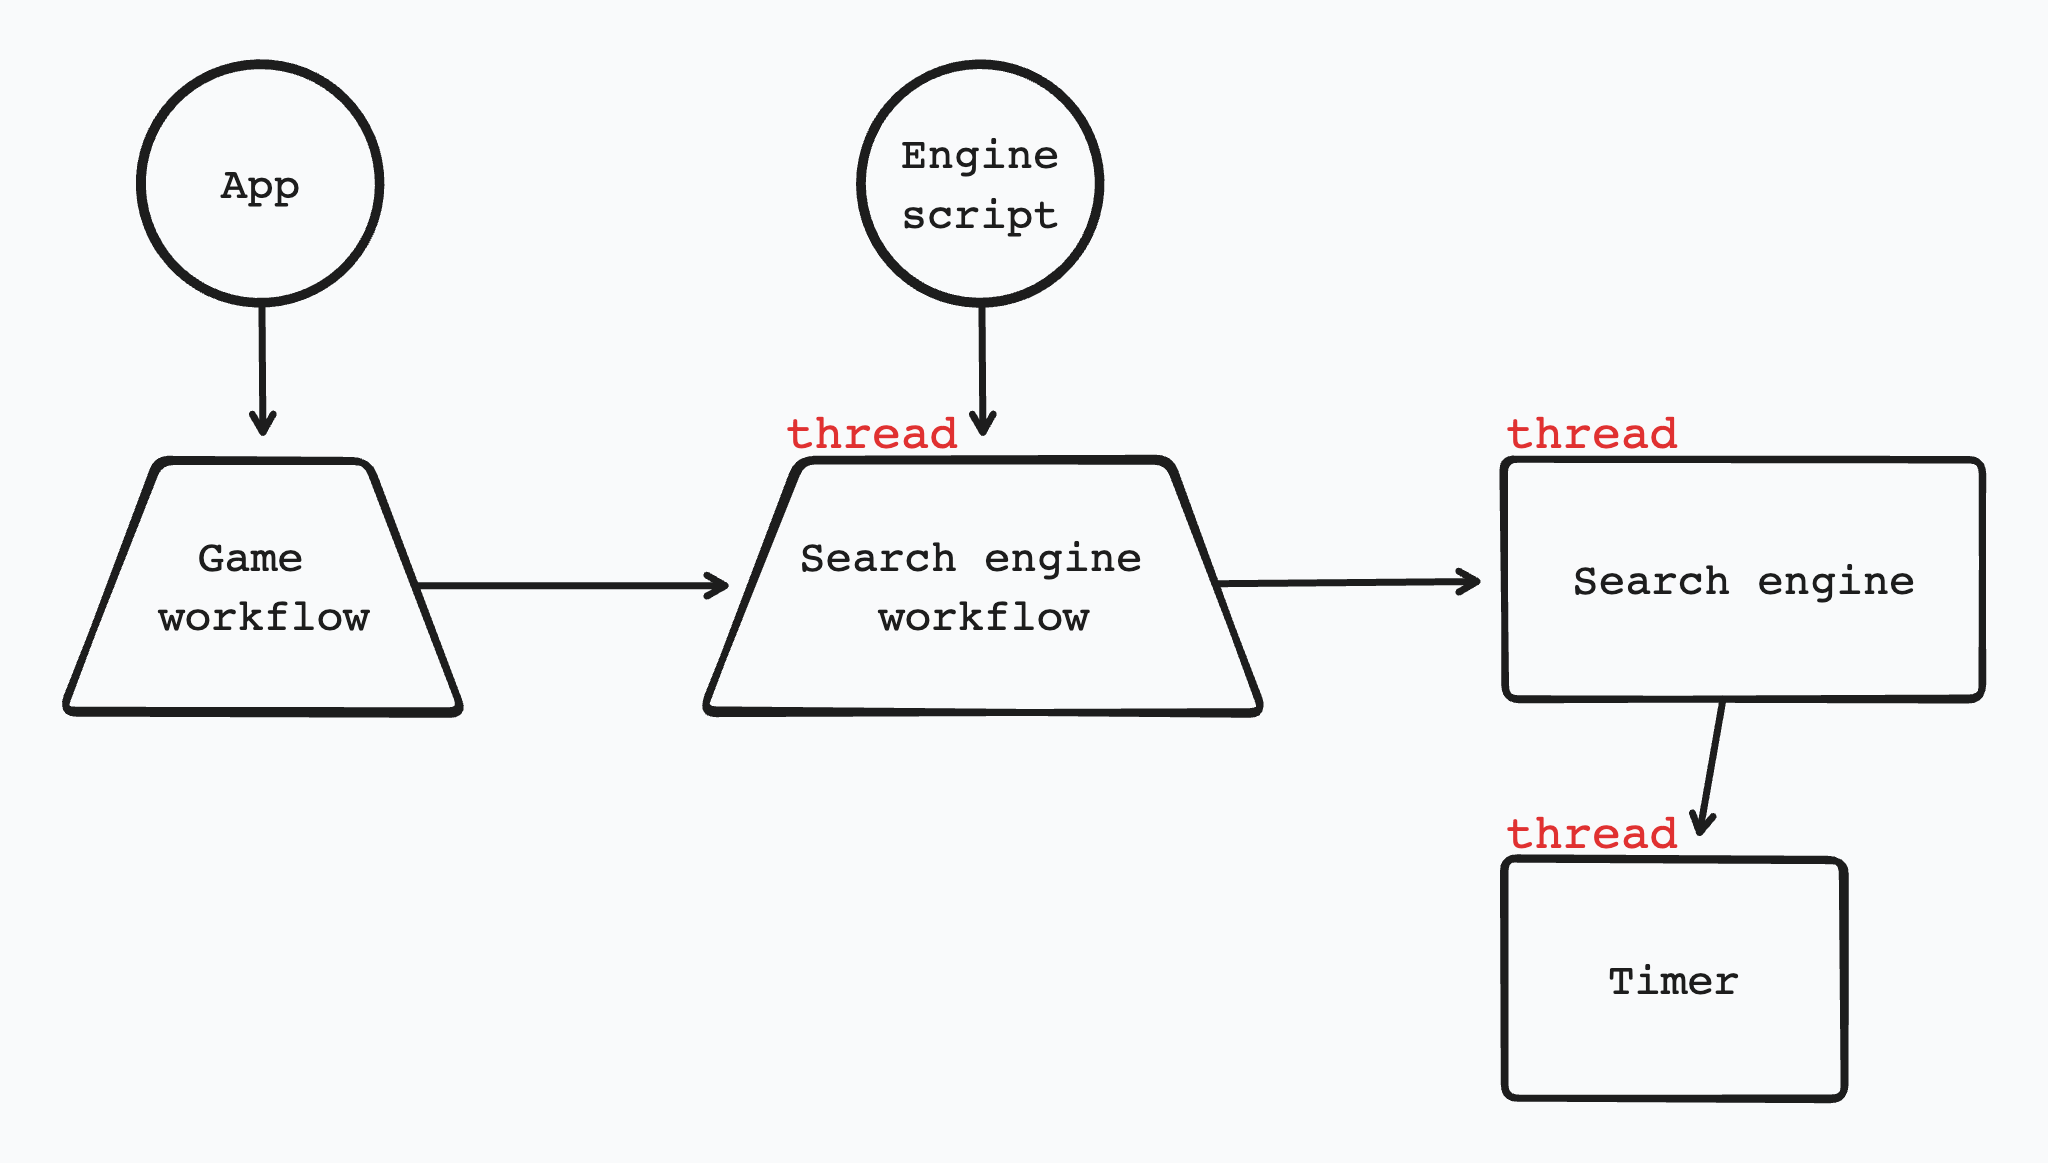
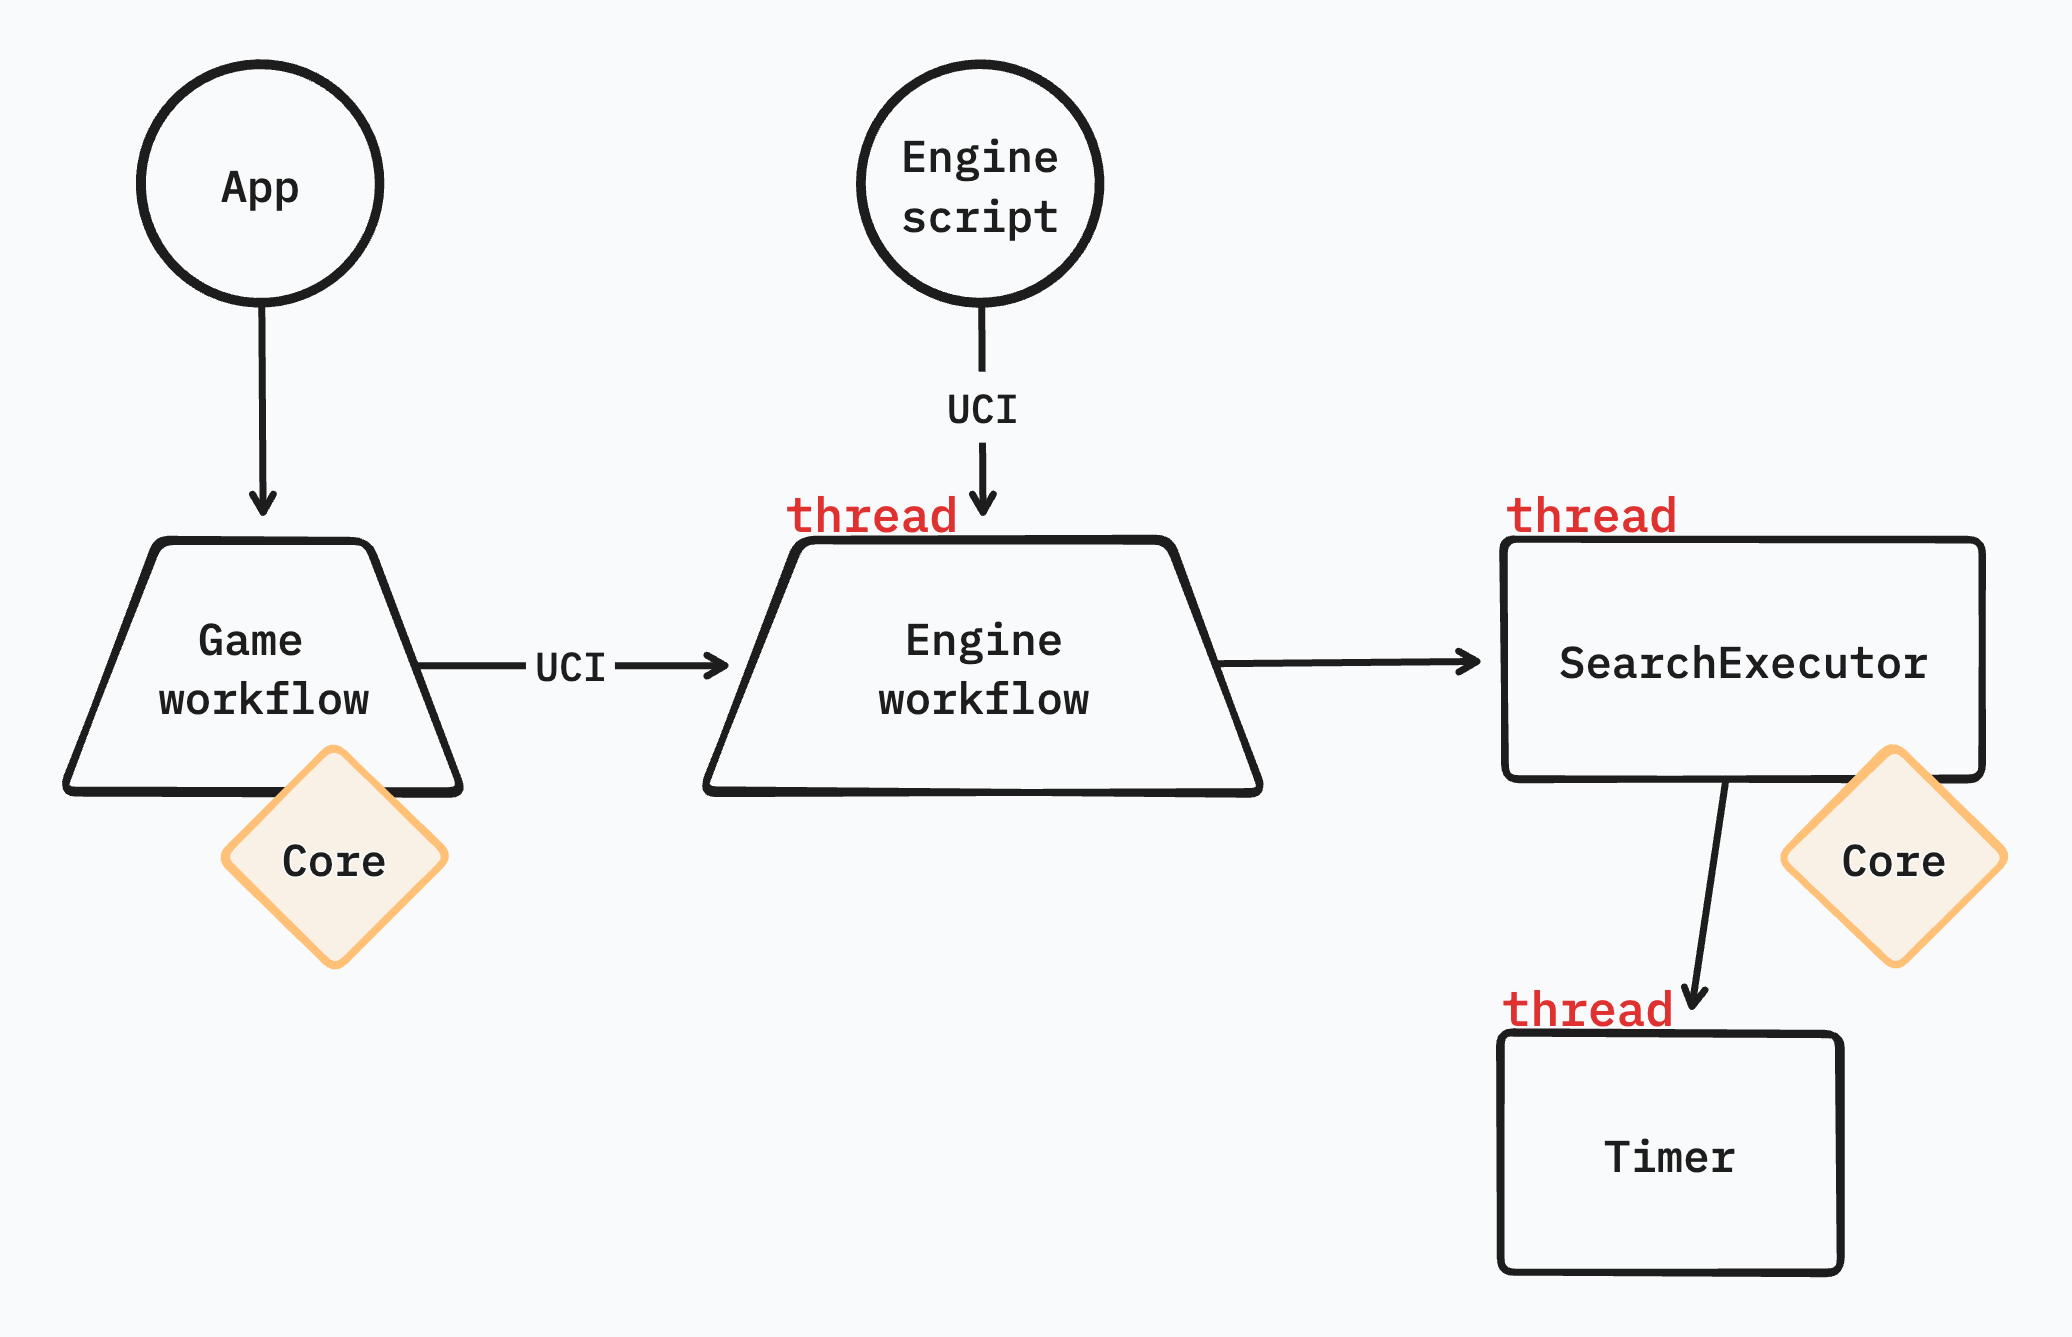
refactoring

diff --git a/src/chess/lib/uci/parse-cli-command.ts b/src/chess/lib/uci/parse-cli-command.ts
@@ -1,6 +1,19 @@
 import { Action } from '.';
 import { FEN_LIBRARY } from '../fen';
-import { GoCommand, UCICommandAction } from './action';
+import {
+  GoCommand,
+  debugAction,
+  goAction,
+  isReadyAction,
+  ponderHitAction,
+  positionAction,
+  quitAction,
+  registerAction,
+  setOptionAction,
+  stopAction,
+  uciAction,
+  uciNewGameAction,
+} from './action';
 import { EngineOptionName } from './uci-response';
 
 const parseGoCommand = (parts: string[]): GoCommand => {
@@ -59,38 +72,38 @@ export const parse = (commandString: string): Action => {
 
   switch (command) {
     case 'uci':
-      return UCICommandAction.uciAction();
+      return uciAction();
     case 'debug':
       // eslint-disable-next-line no-case-declarations
       const [boolValue] = args;
-      return UCICommandAction.debugAction(boolValue == 'on');
+      return debugAction(boolValue == 'on');
     case 'isready':
-      return UCICommandAction.isReadyAction();
+      return isReadyAction();
     case 'setoption': {
       const [, name, , value] = args;
       // TODO: validation of option name
-      return UCICommandAction.setOptionAction(name as EngineOptionName, value);
+      return setOptionAction(name as EngineOptionName, value);
     }
     case 'register':
-      return UCICommandAction.registerAction();
+      return registerAction();
     case 'ucinewgame':
-      return UCICommandAction.uciNewGameAction();
+      return uciNewGameAction();
     case 'position': {
       const [fen, ...moves] = args;
-      return UCICommandAction.positionAction(
+      return positionAction(
         fen === 'startpos' ? FEN_LIBRARY.STARTING_POSITION_FEN : fen,
         moves,
       );
     }
     case 'go': {
-      return UCICommandAction.goAction(parseGoCommand(args));
+      return goAction(parseGoCommand(args));
     }
     case 'stop':
-      return UCICommandAction.stopAction();
+      return stopAction();
     case 'ponderhit':
-      return UCICommandAction.ponderHitAction();
+      return ponderHitAction();
     case 'quit':
-      return UCICommandAction.quitAction();
+      return quitAction();
     default:
       console.log('blah');
       break;

diff --git a/src/chess/workers/index.ts b/src/chess/workers/index.ts
@@ -3,6 +3,8 @@ import Timer from '../../lib/timer';
 import { SearchEngine } from '../ai/search-engine';
 import nodeEndpoint from 'comlink/dist/esm/node-adapter';
 import Logger from '../../lib/logger';
+import { ChessComputerConstructor } from '../ai/chess-computer';
+import { Version } from '../ai/registry';
 
 export const loadPerft = async (): Promise<
   [worker: Worker, cleanup: () => void]
@@ -23,6 +25,39 @@ export const loadSearchEngine = async (
       proxy(arg);
     }
   }
+
+  let RemoteClass: Remote<typeof SearchEngine>;
+  let cleanup: () => void;
+
+  if (Worker) {
+    logger.debug('loading search-engine web worker');
+    const worker = new Worker(new URL('./search-engine', import.meta.url), {
+      type: 'module',
+    });
+    worker.addEventListener('error', (event) => {
+      logger.error('search-engine web worker crashed', event.message, event);
+    });
+    RemoteClass = wrap<typeof SearchEngine>(worker);
+    cleanup = () => worker.terminate();
+  } else {
+    logger.debug('loading search engine thread');
+    const { Worker } = await import('node:worker_threads');
+    const worker = new Worker(new URL('./search-engine', import.meta.url));
+    RemoteClass = wrap<typeof SearchEngine>(nodeEndpoint(worker));
+    cleanup = () => worker.terminate();
+  }
+
+  logger.debug('creating remote SearchEngine instance');
+  const instance = await new RemoteClass(...args);
+  logger.debug('created remote SearchEngine instance');
+  return [instance, cleanup];
+};
+
+export const loadChessComputer = async (
+  version: Version,
+  ...args: ChessComputerConstructor
+): Promise<[uciComputer: Remote<ChessComputer>, cleanup: () => void]> => {
+  const logger = new Logger('worker-init');
 
   let RemoteClass: Remote<typeof SearchEngine>;
   let cleanup: () => void;

diff --git a/src/chess/lib/uci/example.test.ts b/src/chess/lib/uci/example.test.ts
@@ -1,21 +1,27 @@
 import { expect, test } from 'vitest';
-import init, { createState, Action } from '.';
+import init, {
+  createState,
+  uciAction,
+  isReadyAction,
+  setOptionAction,
+  uciNewGameAction,
+} from '.';
 import Engine from '../../engine';
-import { UCICommandAction } from './action';
 import Iterative from '../../ai/algorithms/iterative';
+import { UCIResponse, toUCI } from './uci-response';
 
 test('example interaction with UCI engine worker', () => {
-  let responses: string[] = [];
+  let responses: UCIResponse[] = [];
 
   const { emit } = init(createState(), {
     engine: new Engine(),
     ai: new Iterative(4),
-    sendUCIResponse: (response: string) => responses.push(response),
+    sendUCIResponse: (response) => responses.push(response),
   });
 
-  emit(UCICommandAction.uciAction());
+  emit(uciAction());
 
-  expect(responses).toEqual([
+  expect(toUCI(...responses)).toEqual([
     'id name justin uci computer v1',
     'id author garjust',
     'option name Hash type spin default 128 min 128 max 1024',
@@ -24,11 +30,11 @@ test('example interaction with UCI engine worker', () => {
   ]);
   responses = [];
 
-  emit(UCICommandAction.setOptionAction('Hash', '512'));
-  emit(UCICommandAction.setOptionAction('OwnBook', 'false'));
-  emit(UCICommandAction.isReadyAction());
+  emit(setOptionAction('Hash', '512'));
+  emit(setOptionAction('OwnBook', 'false'));
+  emit(isReadyAction());
 
   expect(responses).toEqual(['readyok']);
 
-  emit(UCICommandAction.uciNewGameAction());
+  emit(uciNewGameAction());
 });

diff --git a/src/chess/lib/uci/uci-response.test.ts b/src/chess/lib/uci/uci-response.test.ts
@@ -1,20 +1,20 @@
 import { expect, test } from 'vitest';
-import { toUCIString, UCIResponseType } from './uci-response';
+import { toUCI, UCIResponseType } from './uci-response';
 
 test('responses', () => {
-  expect(toUCIString({ type: UCIResponseType.UCIOk })).toEqual(['uciok']);
-  expect(toUCIString({ type: UCIResponseType.ReadyOk })).toEqual(['readyok']);
+  expect(toUCI({ type: UCIResponseType.UCIOk })).toEqual(['uciok']);
+  expect(toUCI({ type: UCIResponseType.ReadyOk })).toEqual(['readyok']);
   expect(
-    toUCIString({
+    toUCI({
       type: UCIResponseType.Id,
       name: 'justin uci computer v1',
       author: 'garjust',
     }),
   ).toEqual(['id name justin uci computer v1', 'id author garjust']);
-  expect(toUCIString({ type: UCIResponseType.Option, name: 'Hash' })).toEqual([
+  expect(toUCI({ type: UCIResponseType.Option, name: 'Hash' })).toEqual([
     'option name Hash type spin default 128 min 128 max 1024',
   ]);
-  expect(
-    toUCIString({ type: UCIResponseType.Option, name: 'OwnBook' }),
-  ).toEqual(['option name OwnBook type check default true']);
+  expect(toUCI({ type: UCIResponseType.Option, name: 'OwnBook' })).toEqual([
+    'option name OwnBook type check default true',
+  ]);
 });

diff --git a/src/chess/lib/uci/uci-response.ts b/src/chess/lib/uci/uci-response.ts
@@ -39,15 +39,15 @@ const OptionHash = {
   max: 1024,
 };
 
-function optionToResponse(
+const optionToResponse = (
   option: Record<string, string | number | boolean>,
-): string {
+): string => {
   let str = 'option';
   for (const [k, v] of Object.entries(option)) {
     str += ` ${k} ${v}`;
   }
   return str;
-}
+};
 
 export type UCIResponse =
   | { type: UCIResponseType.Id; name: string; author: 'garjust' }
@@ -59,7 +59,7 @@ export type UCIResponse =
   | { type: UCIResponseType.Info; data: Record<InfoKey, string> }
   | { type: UCIResponseType.Option; name: EngineOptionName };
 
-export const toUCIString = (response: UCIResponse): string[] => {
+const toUCIString = (response: UCIResponse): string[] => {
   let str: string;
   switch (response.type) {
     case UCIResponseType.Id:
@@ -89,3 +89,6 @@ export const toUCIString = (response: UCIResponse): string[] => {
       }
   }
 };
+
+export const toUCI = (...responses: UCIResponse[]): string[] =>
+  responses.map((r) => toUCIString(r)).flat();

diff --git a/src/script/engine.ts b/src/script/engine.ts
@@ -1,9 +1,9 @@
 import readline from 'readline';
-import { UCICommandAction } from '../chess/lib/uci/action';
 import { LATEST, Version } from '../chess/ai/registry';
 import { SearchEngine } from '../chess/ai/search-engine';
 import { parse } from '../chess/lib/uci/parse-cli-command';
-import { UCIResponse, toUCIString } from '../chess/lib/uci/uci-response';
+import { UCIResponse, toUCI } from '../chess/lib/uci/uci-response';
+import { debugAction } from '../chess/lib/uci';
 
 const DEBUG = true;
 
@@ -15,13 +15,13 @@ const rl = readline.createInterface({
   terminal: false,
 });
 const responseFunc = (response: UCIResponse) => {
-  toUCIString(response).map((str: string) => rl.write(`${str}\n`));
+  toUCI(response).map((str: string) => rl.write(`${str}\n`));
 };
 
 const searchEngine = new SearchEngine(SEARCH_VERSION, 10, responseFunc);
 
 if (DEBUG) {
-  searchEngine.emit(UCICommandAction.debugAction(true));
+  searchEngine.emit(debugAction(true));
 }
 
 rl.on('line', (line) => {

diff --git a/src/chess/ui/Debug.tsx b/src/chess/ui/Debug.tsx
@@ -32,7 +32,8 @@ async function runSingleComputerNextMoveTest(logger: Observer<string>) {
   const [ai, cleanup] = await loadSearchEngine(
     LATEST,
     COMPUTER_DEPTH,
-    (response: string) => {},
+    // TODO: fix response func
+    () => {},
   );
 
   const tests = [STARTING_POSITION, VIENNA_OPENING, PERFT_POSITION_5];
@@ -58,9 +59,11 @@ async function runComputerNextMoveTest(
 ) {
   const computers = await Promise.all(
     Object.keys(Registry).map(async (version) => {
-      const [ai, cleanup] = await loadComputer(
+      const [ai, cleanup] = await loadSearchEngine(
         version as Version,
         COMPUTER_DEPTH,
+        // TODO: fix response func
+        () => {},
       );
       return {
         version: version as Version,

diff --git a/src/chess/lib/uci/update.ts b/src/chess/lib/uci/update.ts
@@ -3,6 +3,7 @@ import { Update } from '../../../lib/workflow';
 import Engine from '../../engine';
 import { parseFEN } from '../fen';
 import {
+  Type,
   Action,
   DebugAction,
   GoAction,
@@ -11,7 +12,7 @@ import {
   RespondAction,
   respondAction,
 } from './action';
-import { State, Type } from './index';
+import { State } from './index';
 import { UCIResponse, UCIResponseType } from './uci-response';
 import { ChessComputer } from '../../ai/chess-computer';
 import { moveFromString } from '../../move-notation';

diff --git a/src/chess/ai/chess-computer.ts b/src/chess/ai/chess-computer.ts
@@ -1,4 +1,3 @@
-import { Action } from '../lib/uci';
 import { Move, Position } from '../types';
 import { DiagnosticsResult } from './search/diagnostics';
 
@@ -8,8 +7,4 @@ export interface ChessComputer {
   get label(): string;
 }
 
-export interface UCIChessComputerI {
-  send(uciMessage: string): void;
-  get diagnosticsResult(): DiagnosticsResult | null;
-  get label(): string;
-}
+export type ChessComputerConstructor = [maxDepth: number];
